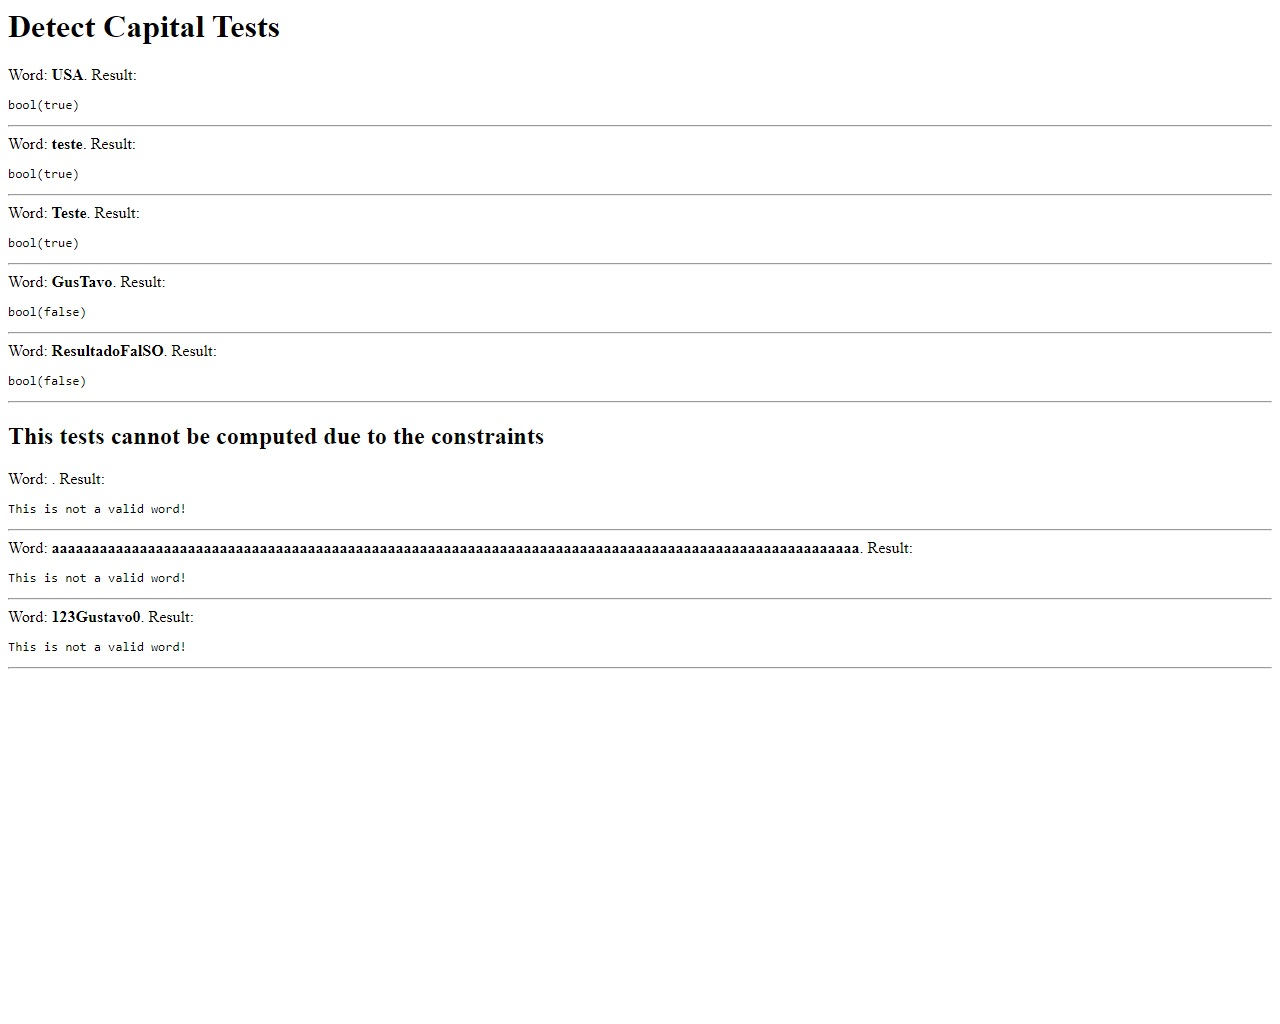
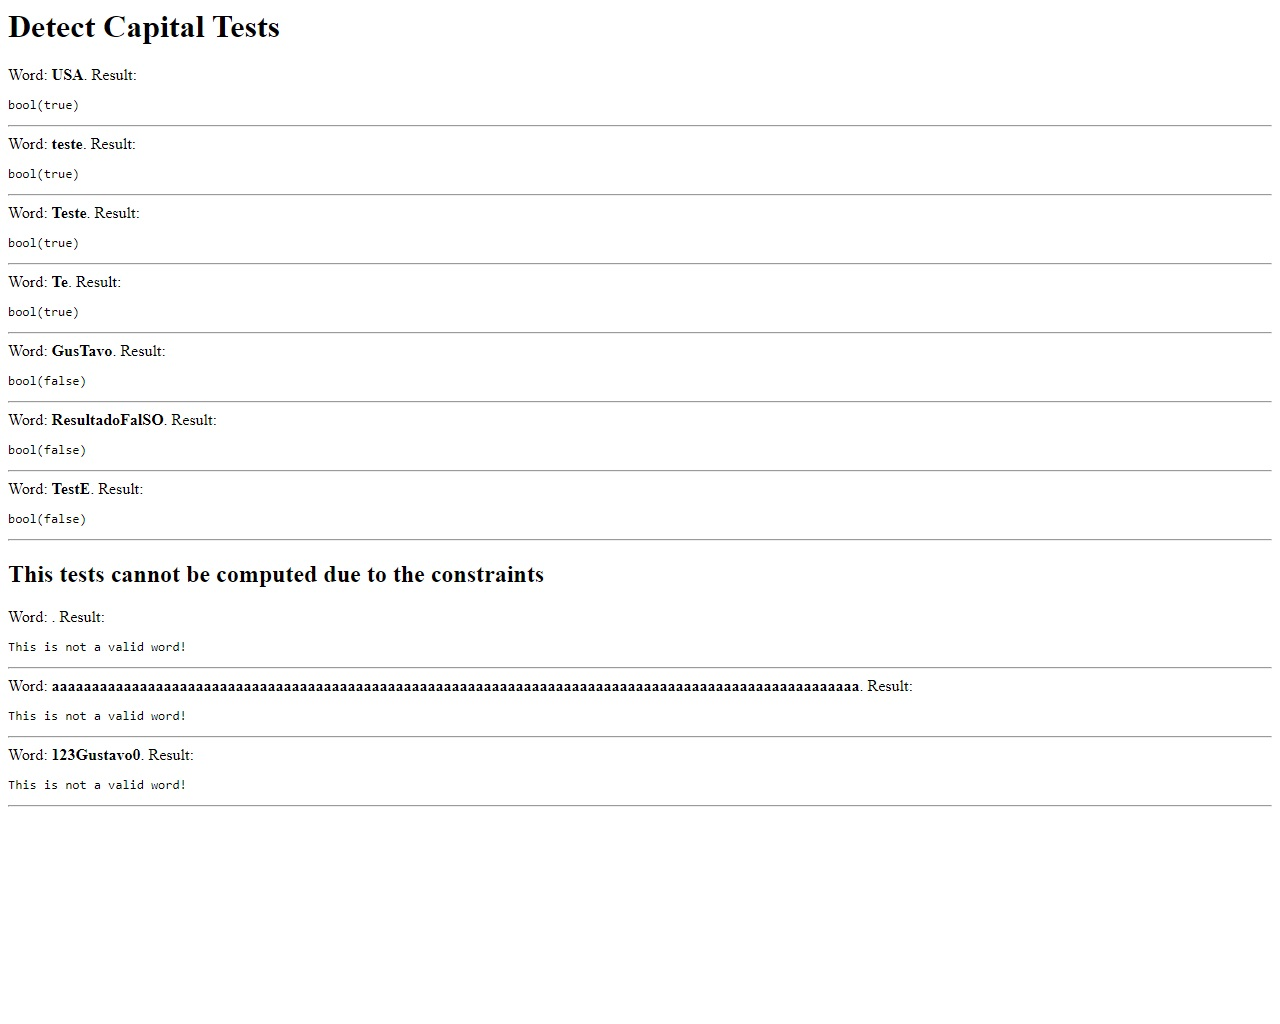
Solution Class fix

diff --git a/Solution.php b/Solution.php
@@ -51,7 +51,7 @@ class Solution
         
         //Check if the first letter is upper case and the other lower case
         $firstLetter = $this->word[0];
-        $otherLetters = substr($this->word, 1, -1); 
+        $otherLetters = substr($this->word, - ( strlen($this->word) - 1 ) );
         
         if(ctype_upper($firstLetter) && ctype_lower($otherLetters)){
             return true;

diff --git a/index.php b/index.php
@@ -35,10 +35,16 @@ showResults($word);
 $word = new Solution('Teste');
 showResults($word);
 
+$word = new Solution('Te');
+showResults($word);
+
 $word = new Solution('GusTavo');
 showResults($word);
 
 $word = new Solution('ResultadoFalSO');
+showResults($word);
+
+$word = new Solution('TestE');
 showResults($word);
 
 //This tests cannot be computed due to the constraints
